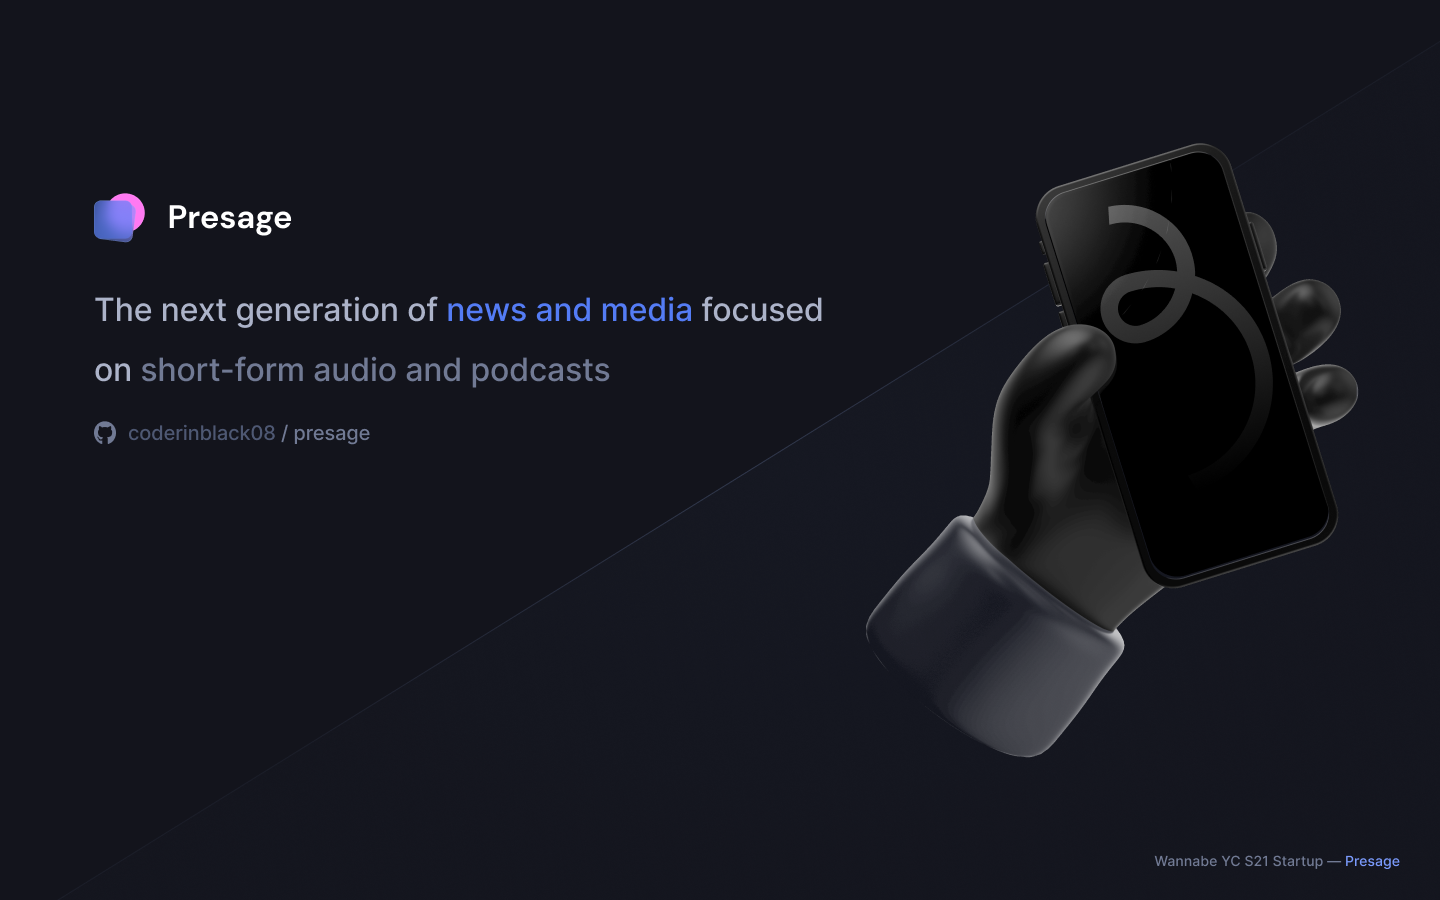
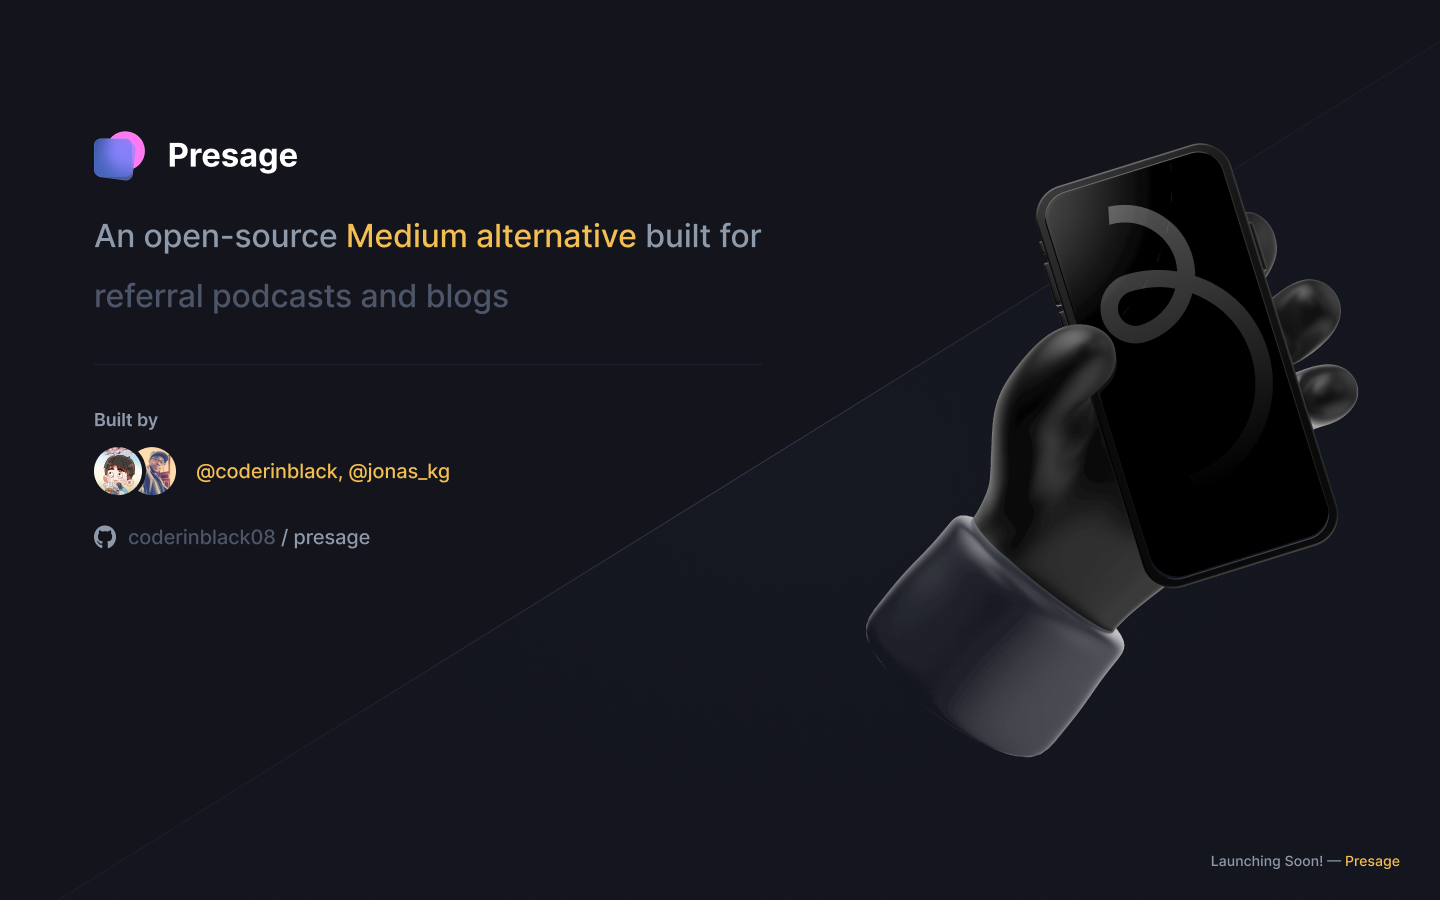
docs: New thumbnail and add Jonas to README

diff --git a/README.md b/README.md
@@ -1,17 +1,17 @@
 # Presage
 
-The next generation of news and media focused on short-form audio and podcasts 🗞 🎧
+A Medium alternative built for referral podcasts and blogs
 
 ![Presage Thumbnail](thumbnail.png)
 
 ## Development
 
-All packages (web, api, etc.) are under `packages/`. When starting the api, run `yarn dev` and generate and migrate with prisma.
+All packages (web, api, etc.) are under `packages/`. When starting the api, run `yarn watch` and `yarn dev`.
 
 When contributing code, please checkout our [figma file](https://www.figma.com/file/CKMCjIqJq0Inwn6uFeSnor/Presage).
 
 ## Contact & Other Details
 
-If you want to get in touch for investing, contributing, or joining our platform, please dm me on twitter [@coderinblack](https://twitter.com/coderinblack).
+If you want to get in touch for investing, contributing, or joining our platform, please dm us on twitter [@coderinblack](https://twitter.com/coderinblack) and [@jonas_kg](https://twitter.com/jonas_kg).
 
-We plan on launching sometime this summer (2021).
+We plan on launching sometime this summer (2021) and to apply to YC S22.
